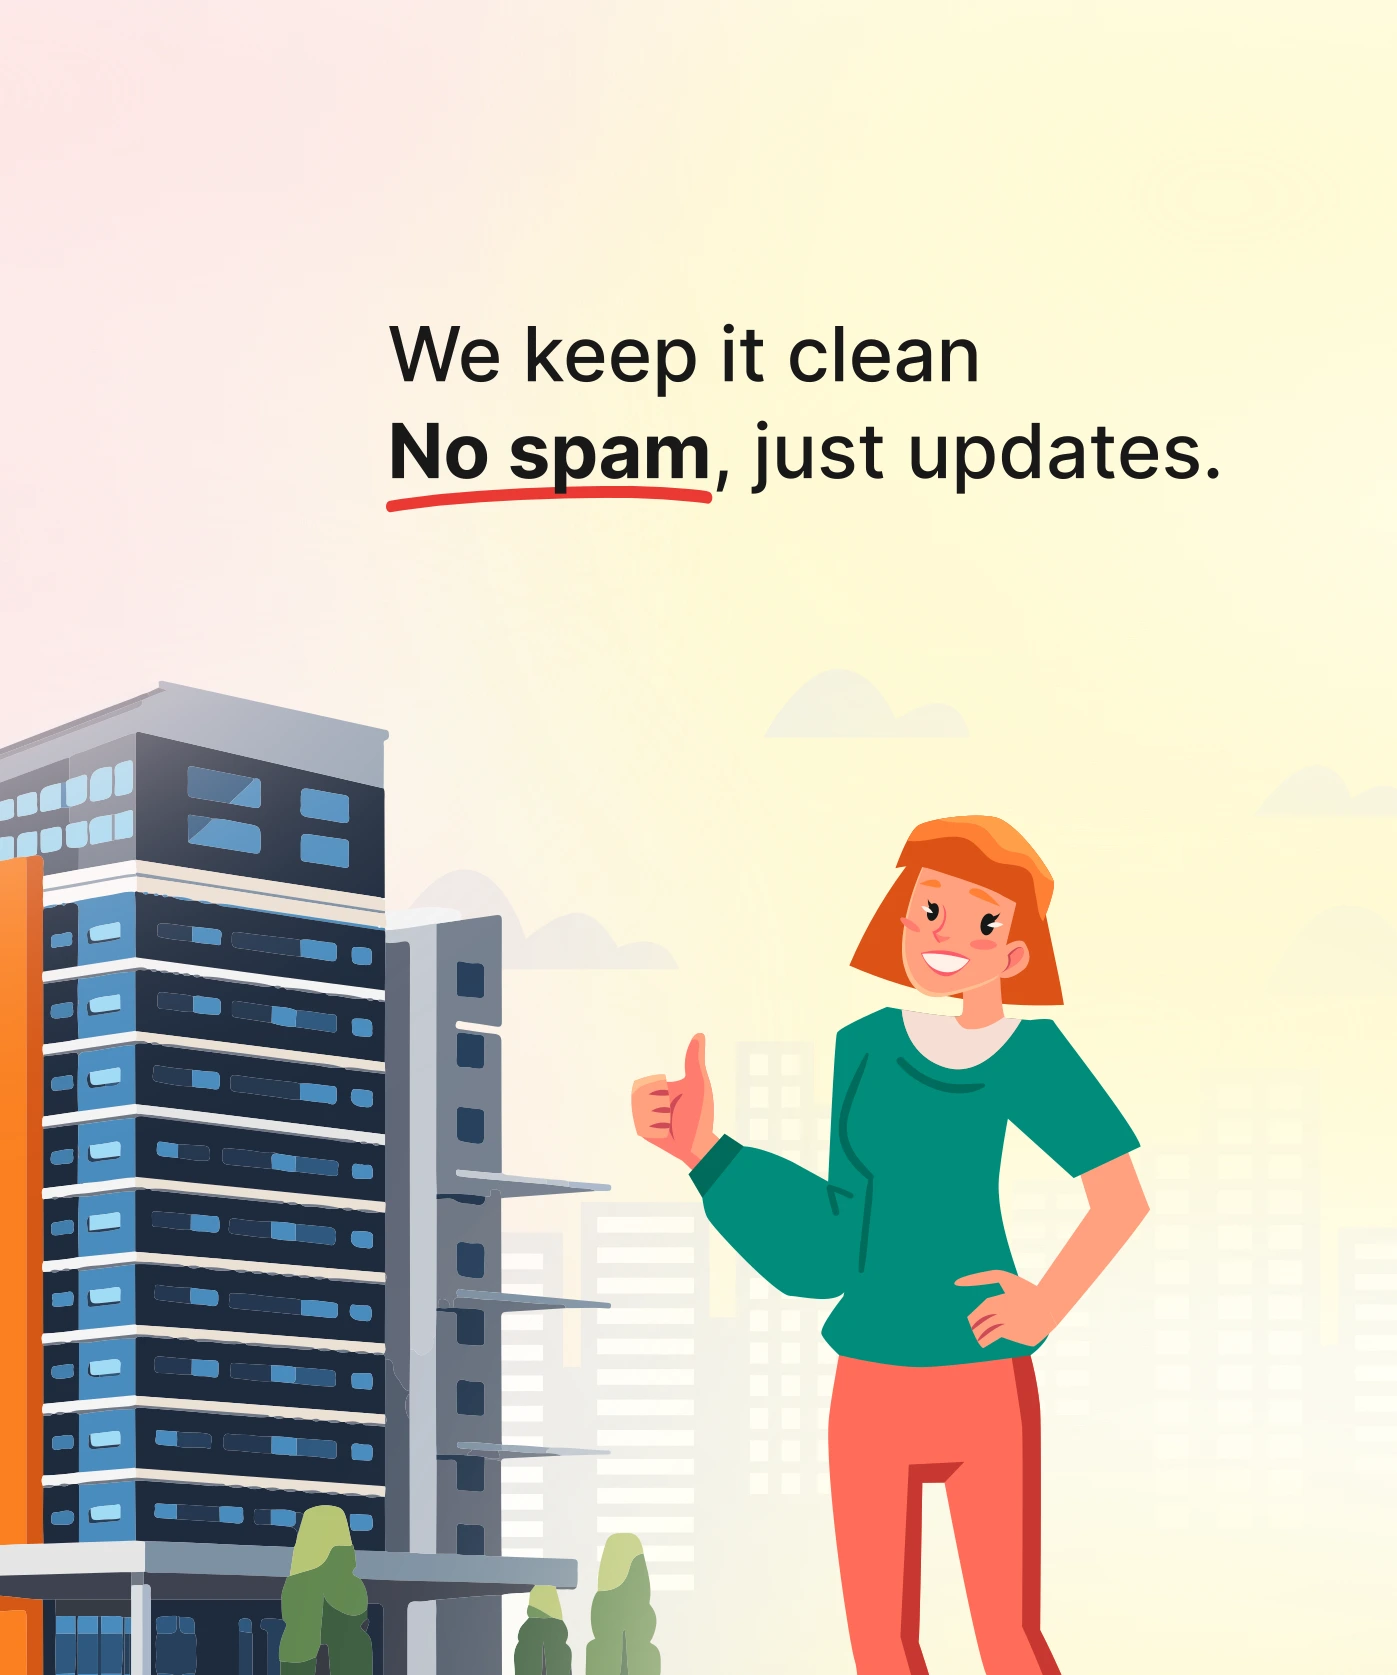
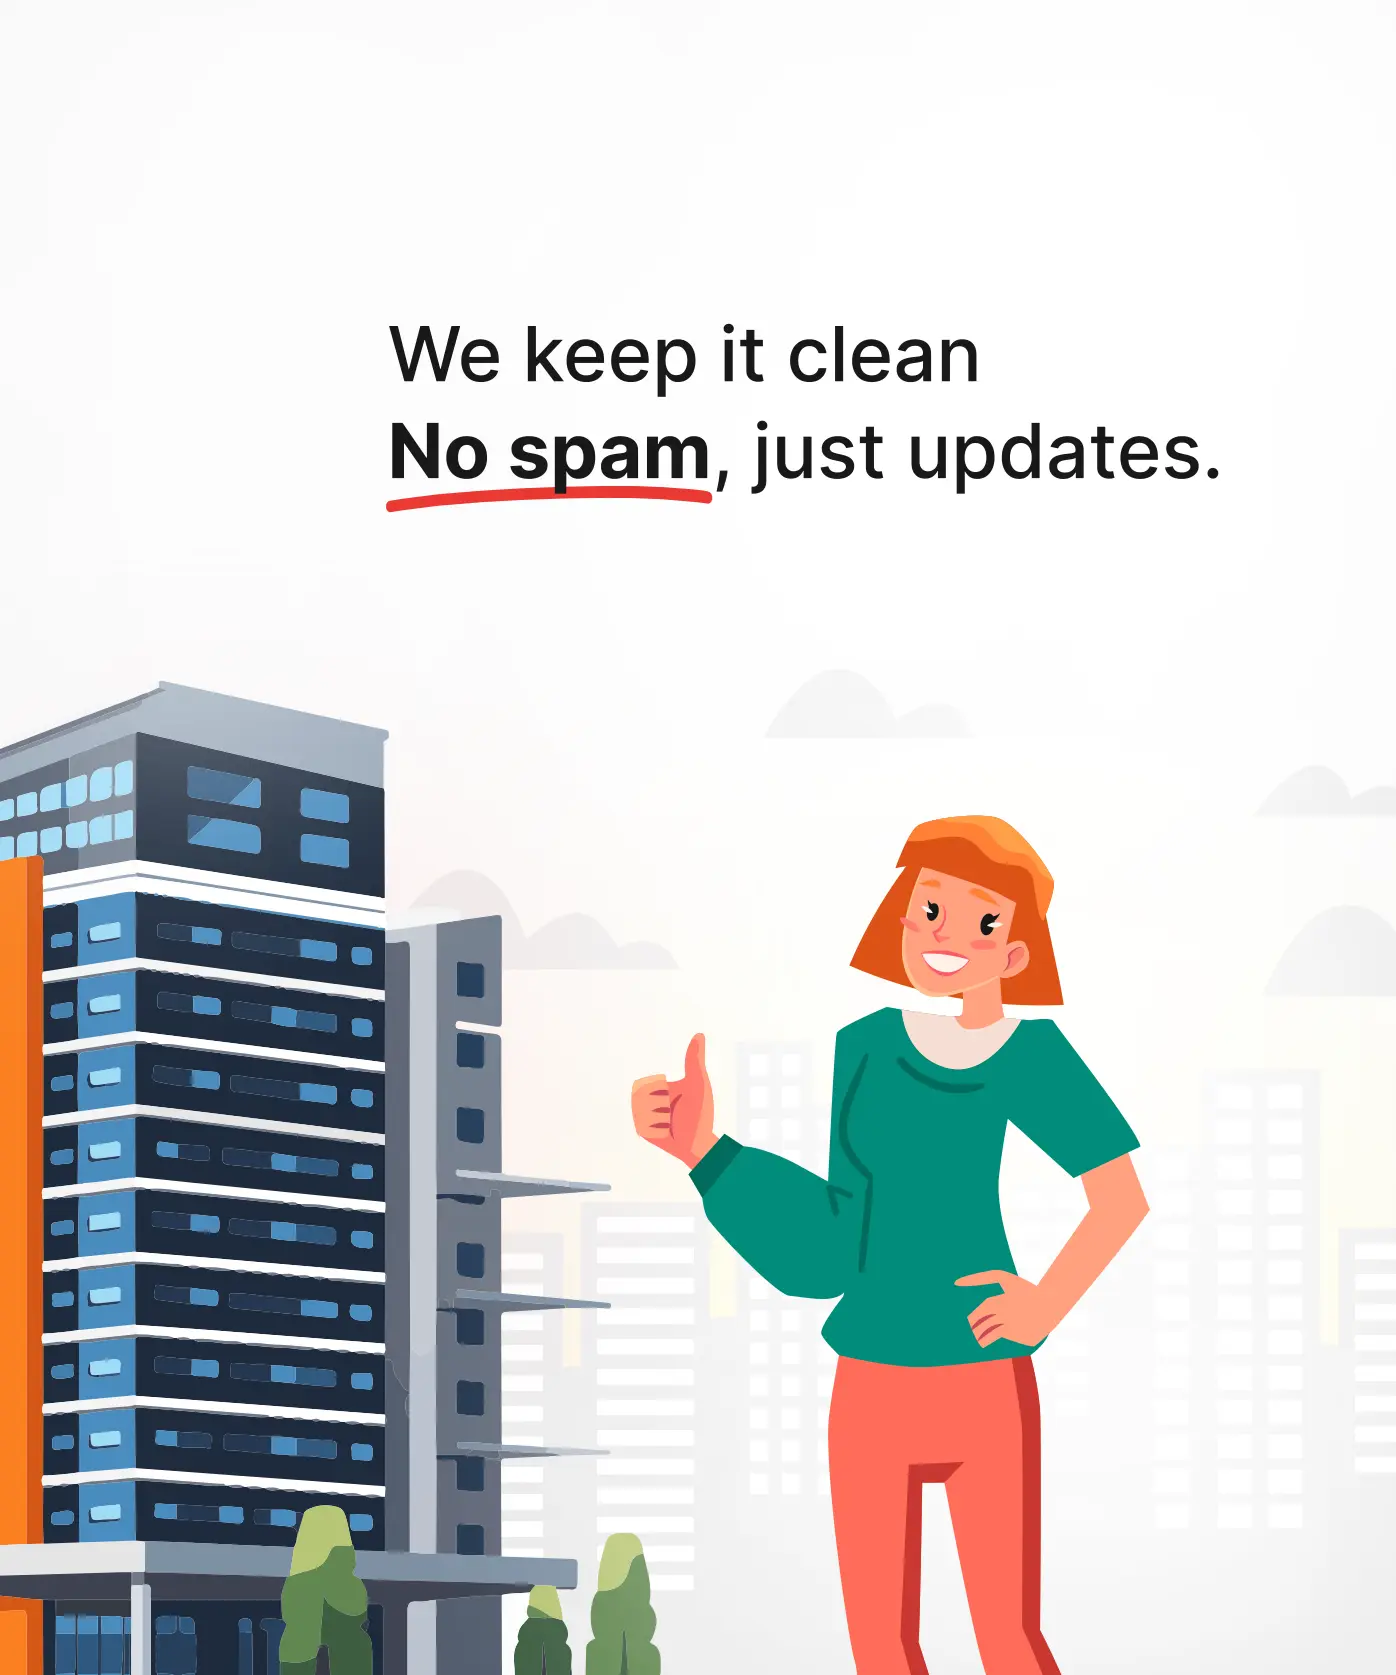
changed login dialogue size and image component

diff --git a/hc-frontend/src/components/Login.tsx b/hc-frontend/src/components/Login.tsx
@@ -4,7 +4,6 @@ import "react-international-phone/style.css";
 
 import Image from "next/image";
 import { useRouter } from "next/navigation";
-import loginImage from "public/images/login.webp";
 import { useEffect, useMemo, useRef, useState } from "react";
 import { PhoneInput } from "react-international-phone";
 import { useDispatch, useSelector } from "react-redux";
@@ -29,6 +28,7 @@ import {
 } from "@/store/authSlice";
 import { RootState } from "@/store/store";
 import { setCheckUser } from "@/store/userSlice";
+import { ImageWithLoader, SvgIcon } from "@/utility-components";
 
 const emailIDRegex = /^[a-zA-Z0-9._%+-]+@[a-zA-Z0-9.-]+\.[a-zA-Z]{2,}$/;
 
@@ -210,31 +210,20 @@ const Login = () => {
 
   return (
     <div className="flex items-center justify-center h-full bg-white rounded-lg">
-      {/* Left pane (image) - takes full height */}
       {!isMobile && (
-        <div className="h-full w-5/12">
-          <Image
-            src={loginImage}
+        <div className="relative w-2/5 rounded-l-lg h-[420px] 2xl:h-[480px] overflow-hidden">
+          <ImageWithLoader
+            src="/images/login.webp"
             alt="Login"
-            className="relative rounded-l-lg"
-            width={500}
-            height={400}
-            placeholder="blur"
+            fill
+            className="object-center"
+            sizes="100vw"
             priority
           />
         </div>
       )}
       {/* Right pane (form) - takes remaining width */}
       <div className="flex flex-1 h-full px-8 mx-auto relative">
-        <div className="absolute inset-0 md:hidden pointer-events-none">
-          <Image
-            src="/images/login-ellipse.svg"
-            alt="Login Background"
-            fill
-            className="object-contain object-center"
-            sizes="100vw"
-          />
-        </div>
         {authStep === AuthStep.PHONE && (
           <div className="w-full flex flex-col align-center justify-center gap-8">
             {/* Form header */}
@@ -362,7 +351,7 @@ const Login = () => {
           </div>
         )}
         {authStep === AuthStep.OTP && (
-          <div className="w-full flex flex-col align-center justify-center gap-4">
+          <div className="w-full flex flex-col align-center justify-center gap-6">
             {/* Form header */}
             <div>
               <h1 className="text-2xl mb-1 text-black ">
@@ -374,7 +363,7 @@ const Login = () => {
             </div>
 
             {/* Form fields */}
-            <div className="flex flex-col gap-2">
+            <div className="flex flex-col gap-5">
               <div className="flex gap-2">
                 <input
                   id="otp-1"
@@ -423,32 +412,30 @@ const Login = () => {
                   maxLength={1}
                 />
               </div>
-              {/* Info box */}
-              <div className="bg-red-50 p-2 rounded-lg flex items-center gap-2">
-                <Image
-                  src="/icons/coin-egg.svg"
-                  alt="Info"
-                  width={60}
-                  height={60}
-                />
 
-                <div>
-                  <p className="text-gray-800 font-normal">
-                    Verify your Phone Number and earn
-                    <br />
-                    <span className="font-bold">2 Connects</span> instantly!
-                  </p>
+              <div className="flex flex-col gap-4">
+                {/* Info box */}
+                <div className="bg-red-50 p-2 rounded-lg flex items-center gap-2">
+                  <SvgIcon iconSize="medium" name="coin-egg" size={40} />
+
+                  <div>
+                    <p className="text-gray-800 font-normal">
+                      Verify your Phone Number and earn
+                      <span className="font-bold"> 2 Connects</span> instantly!
+                    </p>
+                  </div>
                 </div>
+                {/* Verify Button */}
+                <button
+                  type="submit"
+                  className={`w-full text-white py-3 px-4 rounded-lg ${isVerifyEnabled ? "bg-red-500 hover:bg-red-600" : "bg-red-300"}`}
+                  onClick={handleVerifyAndContinue}
+                  disabled={!isVerifyEnabled}
+                >
+                  {checkUser ? "Verify" : "Verify and Continue"}
+                </button>
               </div>
-              {/* Verify Button */}
-              <button
-                type="submit"
-                className={`w-full text-white py-3 px-4 rounded-lg ${isVerifyEnabled ? "bg-red-500 hover:bg-red-600" : "bg-red-300"}`}
-                onClick={handleVerifyAndContinue}
-                disabled={!isVerifyEnabled}
-              >
-                {checkUser ? "Verify" : "Verify and Continue"}
-              </button>
+
               {/* Resend option */}
               <div className="text-center">
                 <span className="text-gray-500">Didn&apos;t receive code?</span>{" "}

diff --git a/hc-frontend/src/dialogs/login-dialog.tsx b/hc-frontend/src/dialogs/login-dialog.tsx
@@ -9,6 +9,8 @@ import Login from "@/components/Login";
 import { useDeviceContext } from "@/providers/DeviceContextProvider";
 import { useDialog } from "@/providers/DialogContextProvider";
 import { setHideStickyNavBar } from "@/store/appSlice";
+import { MobileHeader } from "@/layout-components";
+import { useRouter } from "next/navigation";
 
 interface LoginDialogProps {
   id: string;
@@ -18,6 +20,7 @@ const LoginDialog: React.FC<LoginDialogProps> = ({ id }) => {
   const { closeDialog } = useDialog();
   const { isMobile } = useDeviceContext();
   const dispatch = useDispatch();
+  const router = useRouter();
 
   useEffect(() => {
     dispatch(setHideStickyNavBar(true));
@@ -35,6 +38,7 @@ const LoginDialog: React.FC<LoginDialogProps> = ({ id }) => {
     <Dialog
       id={id}
       type={isMobile ? "fullscreen" : "card"}
+      width={isMobile ? 100 : 45}
       onClose={handleClose}
       entryAnimation={isMobile ? "animate-slide-in-right" : "animate-fade-in"}
       exitAnimation={isMobile ? "animate-slide-out-right" : "animate-fade-out"}
@@ -43,14 +47,19 @@ const LoginDialog: React.FC<LoginDialogProps> = ({ id }) => {
         <div
           className={`${isMobile ? "py-2 px-8" : ""}  flex flex-col justify-between items-center w-full`}
         >
-          {isMobile && (
-            <h1 className="text-xl py-1.5 text-black">
-              Log In to Your Account
-            </h1>
+          {isMobile ? (
+            <MobileHeader
+              title="Log In to Your Account"
+              onBack={() => router.back()}
+            />
+          ) : (
+            <button
+              className="absolute top-4 right-4 rounded-full p-2 border border-gray-200"
+              onClick={handleClose}
+            >
+              <X size={24} />
+            </button>
           )}
-          <button className="absolute top-4 right-4 rounded-full">
-            <X onClick={handleClose} size={24} />
-          </button>
         </div>
       </DialogHeader>
       <DialogContent>

diff --git a/hc-frontend/src/app/manage-account/owners-you-contacted/page.tsx b/hc-frontend/src/app/manage-account/owners-you-contacted/page.tsx
@@ -3,22 +3,22 @@
 import { Check } from "lucide-react";
 import { useRouter } from "next/navigation";
 import { useEffect, useMemo, useState } from "react";
+import { useDispatch } from "react-redux";
 
 import { BadgeType, PropertyCategory } from "@/common/enums";
 import Properties from "@/components/Properties";
 import { MobileHeader } from "@/layout-components";
-
-import {
-  DUMMY_PROPERTIES_FOR_PROPERTY_CARD,
-  PropertyCardDummy,
-} from "../dummy";
 import { useDeviceContext } from "@/providers/DeviceContextProvider";
-import { useDispatch } from "react-redux";
 import {
   setHideFooter,
   setHideHeader,
   setHideStickyNavBar,
 } from "@/store/appSlice";
+
+import {
+  DUMMY_PROPERTIES_FOR_PROPERTY_CARD,
+  PropertyCardDummy,
+} from "../dummy";
 
 const filterOptions = [
   { label: "All", value: PropertyCategory.NONE },

diff --git a/hc-frontend/src/app/manage-account/shortlists/page.tsx b/hc-frontend/src/app/manage-account/shortlists/page.tsx
@@ -3,22 +3,22 @@
 import { Check } from "lucide-react";
 import { useRouter } from "next/navigation";
 import { useEffect, useMemo, useState } from "react";
+import { useDispatch } from "react-redux";
 
 import { BadgeType, PropertyCategory } from "@/common/enums";
 import Properties from "@/components/Properties";
 import { MobileHeader } from "@/layout-components";
-
-import {
-  DUMMY_PROPERTIES_FOR_PROPERTY_CARD,
-  PropertyCardDummy,
-} from "../dummy";
 import { useDeviceContext } from "@/providers/DeviceContextProvider";
-import { useDispatch } from "react-redux";
 import {
   setHideFooter,
   setHideHeader,
   setHideStickyNavBar,
 } from "@/store/appSlice";
+
+import {
+  DUMMY_PROPERTIES_FOR_PROPERTY_CARD,
+  PropertyCardDummy,
+} from "../dummy";
 
 const filterOptions = [
   { label: "All", value: PropertyCategory.NONE },

diff --git a/hc-frontend/src/app/manage-account/my-payments/page.tsx b/hc-frontend/src/app/manage-account/my-payments/page.tsx
@@ -1,20 +1,20 @@
 "use client";
 
 import { useEffect, useMemo, useState } from "react";
+import { useDispatch } from "react-redux";
 
 import { PaymentFilterStatus } from "@/common/enums";
 import { MobileHeader } from "@/layout-components";
-
-import { TransactionCardList } from "../components/TransactionCardList";
-import { TransactionTable } from "../components/TransactionTable";
-import { DUMMY_PAYMENTS } from "../dummy";
 import { useDeviceContext } from "@/providers/DeviceContextProvider";
-import { useDispatch } from "react-redux";
 import {
   setHideFooter,
   setHideHeader,
   setHideStickyNavBar,
 } from "@/store/appSlice";
+
+import { TransactionCardList } from "../components/TransactionCardList";
+import { TransactionTable } from "../components/TransactionTable";
+import { DUMMY_PAYMENTS } from "../dummy";
 
 const filterOptions = [
   { label: "All", value: PaymentFilterStatus.ALL },

diff --git a/hc-frontend/src/app/contact-us/page.tsx b/hc-frontend/src/app/contact-us/page.tsx
@@ -10,7 +10,11 @@ import { SUPPORT_CONTACT, SUPPORT_EMAIL } from "@/common/constants";
 import { FormPhoneField, FormTextArea, FormTextField } from "@/form-components";
 import { Footer, MobileHeader } from "@/layout-components";
 import { useDeviceContext } from "@/providers/DeviceContextProvider";
-import { setHideFooter, setHideHeader } from "@/store/appSlice";
+import {
+  setHideFooter,
+  setHideHeader,
+  setHideStickyNavBar,
+} from "@/store/appSlice";
 import { ImageWithLoader } from "@/utility-components";
 
 interface ContactUsFormValues {
@@ -47,9 +51,11 @@ export default function ContactUsPage() {
     if (isMobile) {
       dispatch(setHideHeader(true));
       dispatch(setHideFooter(true));
+      dispatch(setHideStickyNavBar(false));
     } else {
       dispatch(setHideHeader(false));
       dispatch(setHideFooter(false));
+      dispatch(setHideStickyNavBar(true));
     }
   }, [isMobile, dispatch]);
 

diff --git a/hc-frontend/src/app/faqs/page.tsx b/hc-frontend/src/app/faqs/page.tsx
@@ -6,7 +6,11 @@ import { useDispatch } from "react-redux";
 import { default as ACCORDION_DATA } from "@/data/SupportAccordionData.json";
 import { Footer, MobileHeader } from "@/layout-components";
 import { useDeviceContext } from "@/providers/DeviceContextProvider";
-import { setHideFooter, setHideHeader } from "@/store/appSlice";
+import {
+  setHideFooter,
+  setHideHeader,
+  setHideStickyNavBar,
+} from "@/store/appSlice";
 
 import { Accordion } from "../manage-account/components/Accordion";
 
@@ -19,9 +23,11 @@ export default function FrequentlyAskedQuestionPage() {
     if (isMobile) {
       dispatch(setHideHeader(true));
       dispatch(setHideFooter(true));
+      dispatch(setHideStickyNavBar(false));
     } else {
       dispatch(setHideHeader(false));
       dispatch(setHideFooter(false));
+      dispatch(setHideStickyNavBar(true));
     }
   }, [isMobile, dispatch]);
 

diff --git a/hc-frontend/src/app/terms-and-conditions/page.tsx b/hc-frontend/src/app/terms-and-conditions/page.tsx
@@ -5,7 +5,11 @@ import { useDispatch } from "react-redux";
 
 import { Footer, MobileHeader } from "@/layout-components";
 import { useDeviceContext } from "@/providers/DeviceContextProvider";
-import { setHideFooter, setHideHeader } from "@/store/appSlice";
+import {
+  setHideFooter,
+  setHideHeader,
+  setHideStickyNavBar,
+} from "@/store/appSlice";
 
 export default function TermsAndConditionsPage() {
   const { isMobile } = useDeviceContext();
@@ -15,9 +19,11 @@ export default function TermsAndConditionsPage() {
     if (isMobile) {
       dispatch(setHideHeader(true));
       dispatch(setHideFooter(true));
+      dispatch(setHideStickyNavBar(false));
     } else {
       dispatch(setHideHeader(false));
       dispatch(setHideFooter(false));
+      dispatch(setHideStickyNavBar(true));
     }
   }, [isMobile, dispatch]);
 

diff --git a/hc-frontend/src/dialogs/menu-dialog.tsx b/hc-frontend/src/dialogs/menu-dialog.tsx
@@ -21,7 +21,6 @@ import { AccountNavList } from "@/components/AccountNavList";
 import { Dialog, DialogContent, DialogHeader } from "@/components/Dialog";
 import { useLogout } from "@/hooks/useLogout";
 import { useDialog } from "@/providers/DialogContextProvider";
-import { setHideStickyNavBar } from "@/store/appSlice";
 import { setLoginFromAddProperty } from "@/store/authSlice";
 import { RootState } from "@/store/store";
 import { ImageWithLoader, SvgIcon } from "@/utility-components";
@@ -55,8 +54,7 @@ const MenuDialog: React.FC<MenuDialogProps> = ({ id }) => {
 
   const handleClose = useCallback(() => {
     closeDialog(id);
-    // dispatch(setHideStickyNavBar(false));
-  }, [closeDialog, id, dispatch]);
+  }, [closeDialog, id]);
 
   const onLogin = () => {
     dispatch(setLoginFromAddProperty(true));

diff --git a/hc-frontend/src/app/manage-account/my-properties/page.tsx b/hc-frontend/src/app/manage-account/my-properties/page.tsx
@@ -7,6 +7,7 @@ import { useDispatch } from "react-redux";
 import { PropertyCategory } from "@/common/enums";
 import MyPropertyActionsDialog from "@/dialogs/my-property-actions";
 import { MobileHeader } from "@/layout-components";
+import { useDeviceContext } from "@/providers/DeviceContextProvider";
 import { useDialog } from "@/providers/DialogContextProvider";
 import {
   setHideFooter,
@@ -17,7 +18,6 @@ import {
 import { PropertyTable } from "../components/PropertiesTable";
 import { PropertyCardList } from "../components/PropertyCardList";
 import { MY_DUMMY_PROPERTIES } from "../dummy";
-import { useDeviceContext } from "@/providers/DeviceContextProvider";
 
 const filterOptions = [
   { label: "All", value: PropertyCategory.NONE },